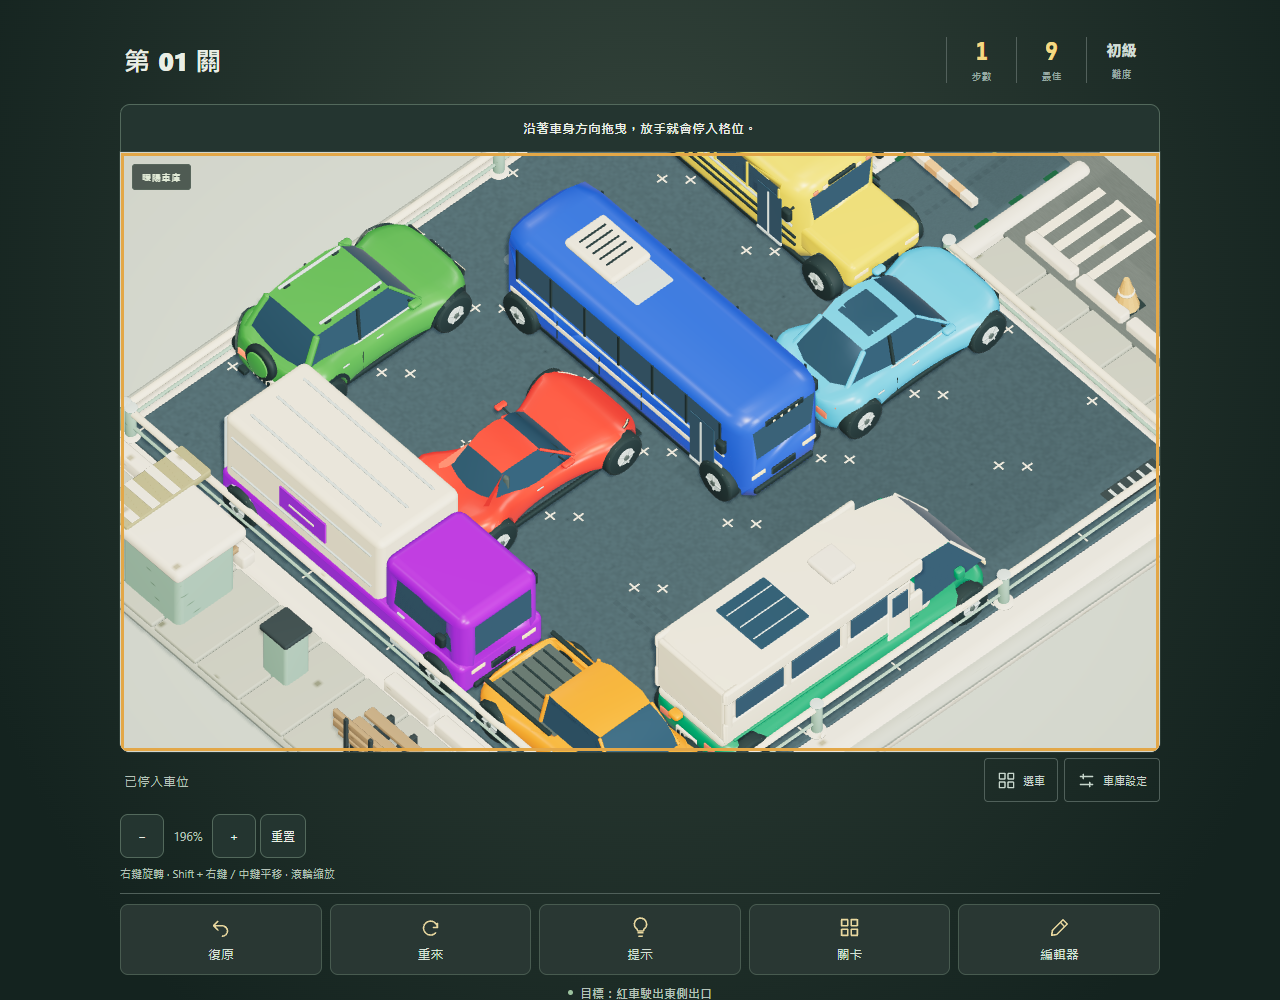
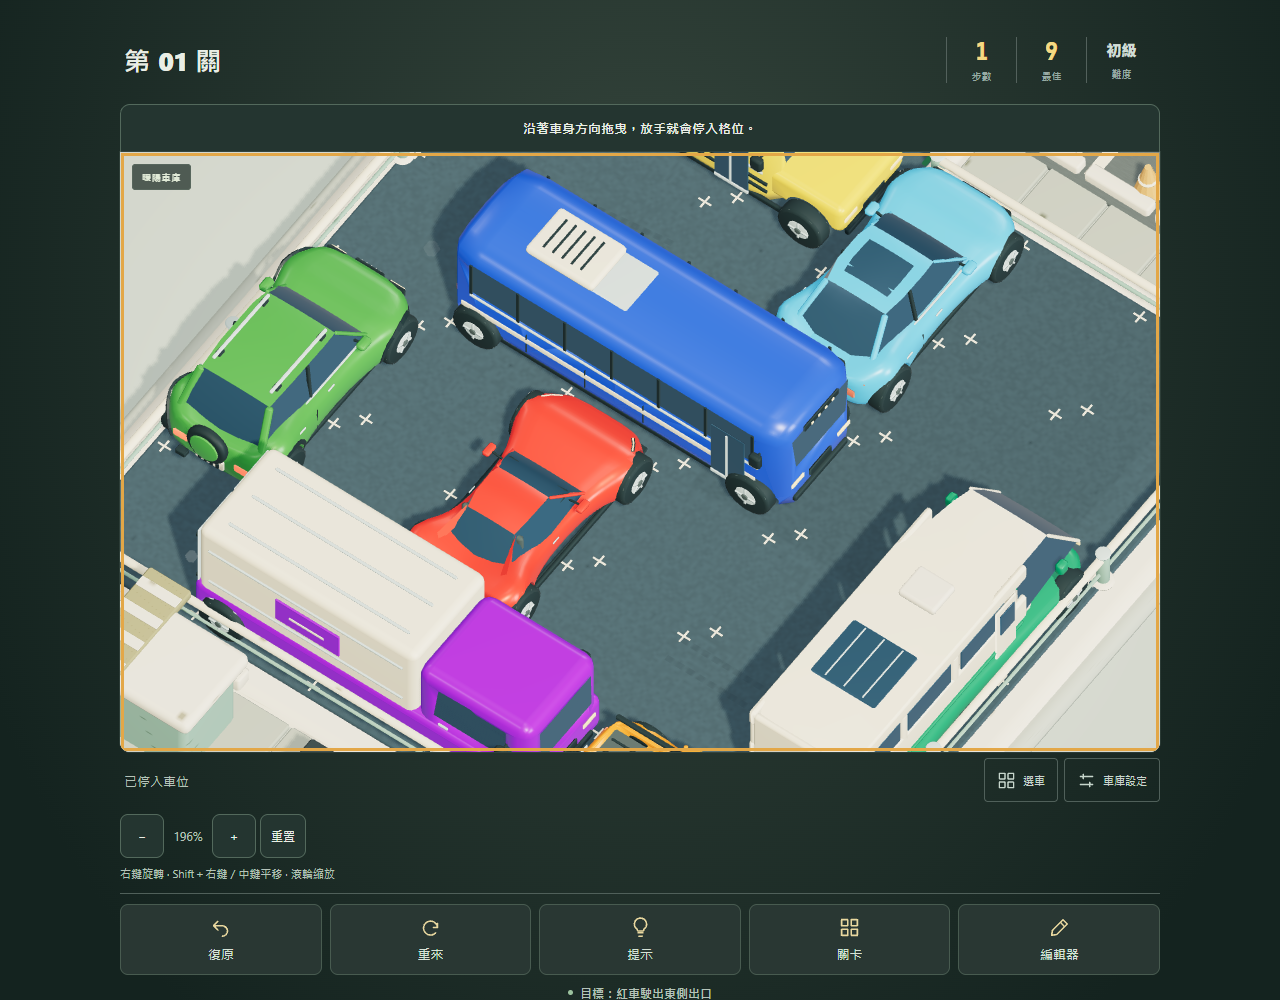
Keep orbit framing fixed and invert pitch drag

Changed region(s): [[0.0938, 0.155, 0.9062, 0.775]]

diff --git a/src/garageScene.js b/src/garageScene.js
@@ -22,6 +22,7 @@ import {
 } from "./vehicleDynamics.js";
 import { createRenderProfiler } from "./renderProfiler.js";
 import {
+  DEFAULT_VIEW,
   normalizeView,
   rotateView,
   panView,
@@ -105,6 +106,18 @@ export function createGarageScene(canvas, getProps, callbacks) {
   const contactGeometry = new THREE.PlaneGeometry(1, 1);
   const camera = new THREE.OrthographicCamera(-5, 5, 4, -4, 0.1, 80);
   const aim = new THREE.Vector3(3.45, 0.15, 3);
+  // A fixed reference view determines framing. Orbit changes orientation only,
+  // so fitting the current angle cannot silently change the player's scale.
+  const framingCamera = camera.clone();
+  const framingPitch = THREE.MathUtils.degToRad(DEFAULT_VIEW.pitch),
+    framingYaw = THREE.MathUtils.degToRad(DEFAULT_VIEW.yaw);
+  framingCamera.position.set(
+    aim.x + Math.sin(framingYaw) * Math.cos(framingPitch) * 14,
+    aim.y + Math.sin(framingPitch) * 14,
+    aim.z + Math.cos(framingYaw) * Math.cos(framingPitch) * 14,
+  );
+  framingCamera.lookAt(aim);
+  framingCamera.updateMatrixWorld();
   const raycaster = new THREE.Raycaster();
   const pointer = new THREE.Vector2();
   const ground = new THREE.Plane(new THREE.Vector3(0, 1, 0), -0.055);
@@ -468,7 +481,7 @@ export function createGarageScene(canvas, getProps, callbacks) {
         for (const y of ys)
           for (const z of zs) {
             const point = new THREE.Vector3(x, y, z).applyMatrix4(
-              camera.matrixWorldInverse,
+              framingCamera.matrixWorldInverse,
             );
             minX = Math.min(minX, point.x);
             maxX = Math.max(maxX, point.x);
@@ -1751,6 +1764,10 @@ export function createGarageScene(canvas, getProps, callbacks) {
         memory: { ...renderer.info.memory },
         ready,
         settings: { ...settings },
+        cameraFrustum: {
+          width: camera.right - camera.left,
+          height: camera.top - camera.bottom,
+        },
         cars: [...groups.values()].map((i) => ({
           id: i.car.id,
           model: i.model,

diff --git a/src/cameraControls.js b/src/cameraControls.js
@@ -16,7 +16,7 @@ export function rotateView(view, dx, dy) {
   return normalizeView({
     ...view,
     yaw: view.yaw - dx * 0.3,
-    pitch: view.pitch - dy * 0.22,
+    pitch: view.pitch + dy * 0.22,
   });
 }
 export function panView(view, dx, dy, width, height, pixelsWide, pixelsHigh) {

diff --git a/docs/camera-2026-10-05/REPORT.md b/docs/camera-2026-10-05/REPORT.md
@@ -16,6 +16,8 @@
 
 ## 互動與效能
 
+旋轉不再依新角度自動重新縮放入鏡：使用預設角度的固定構圖基準，只有滾輪、捏合或縮放按鈕改變尺度，視窗尺寸改變時維持對應長寬比。俯仰拖曳已鏡像反轉：往下拖提高俯視角、往上拖降低俯視角，左右方向維持原樣。原生輸入測試另比對旋轉前後的投影寬高，在 100% 及滾輪放大後均保持不變，手機場外單指亦同。
+
 - 相機手勢只改相機與投影，每影格合併輸入；不在每次 pointermove 更新 React，也不重建車模、材質或陰影。
 - 從移車加入第二根手指時，取消未提交的車輛移動，再開始平移／縮放。抬起其中一指後，剩餘手指不會變成移車或旋轉，需全部放開再開始。
 - 第三根手指、失焦、頁面隱藏、切換關卡及開啟介面均有取消處理。編輯器的雙指手勢不會選定放車起點或放置車輛。
